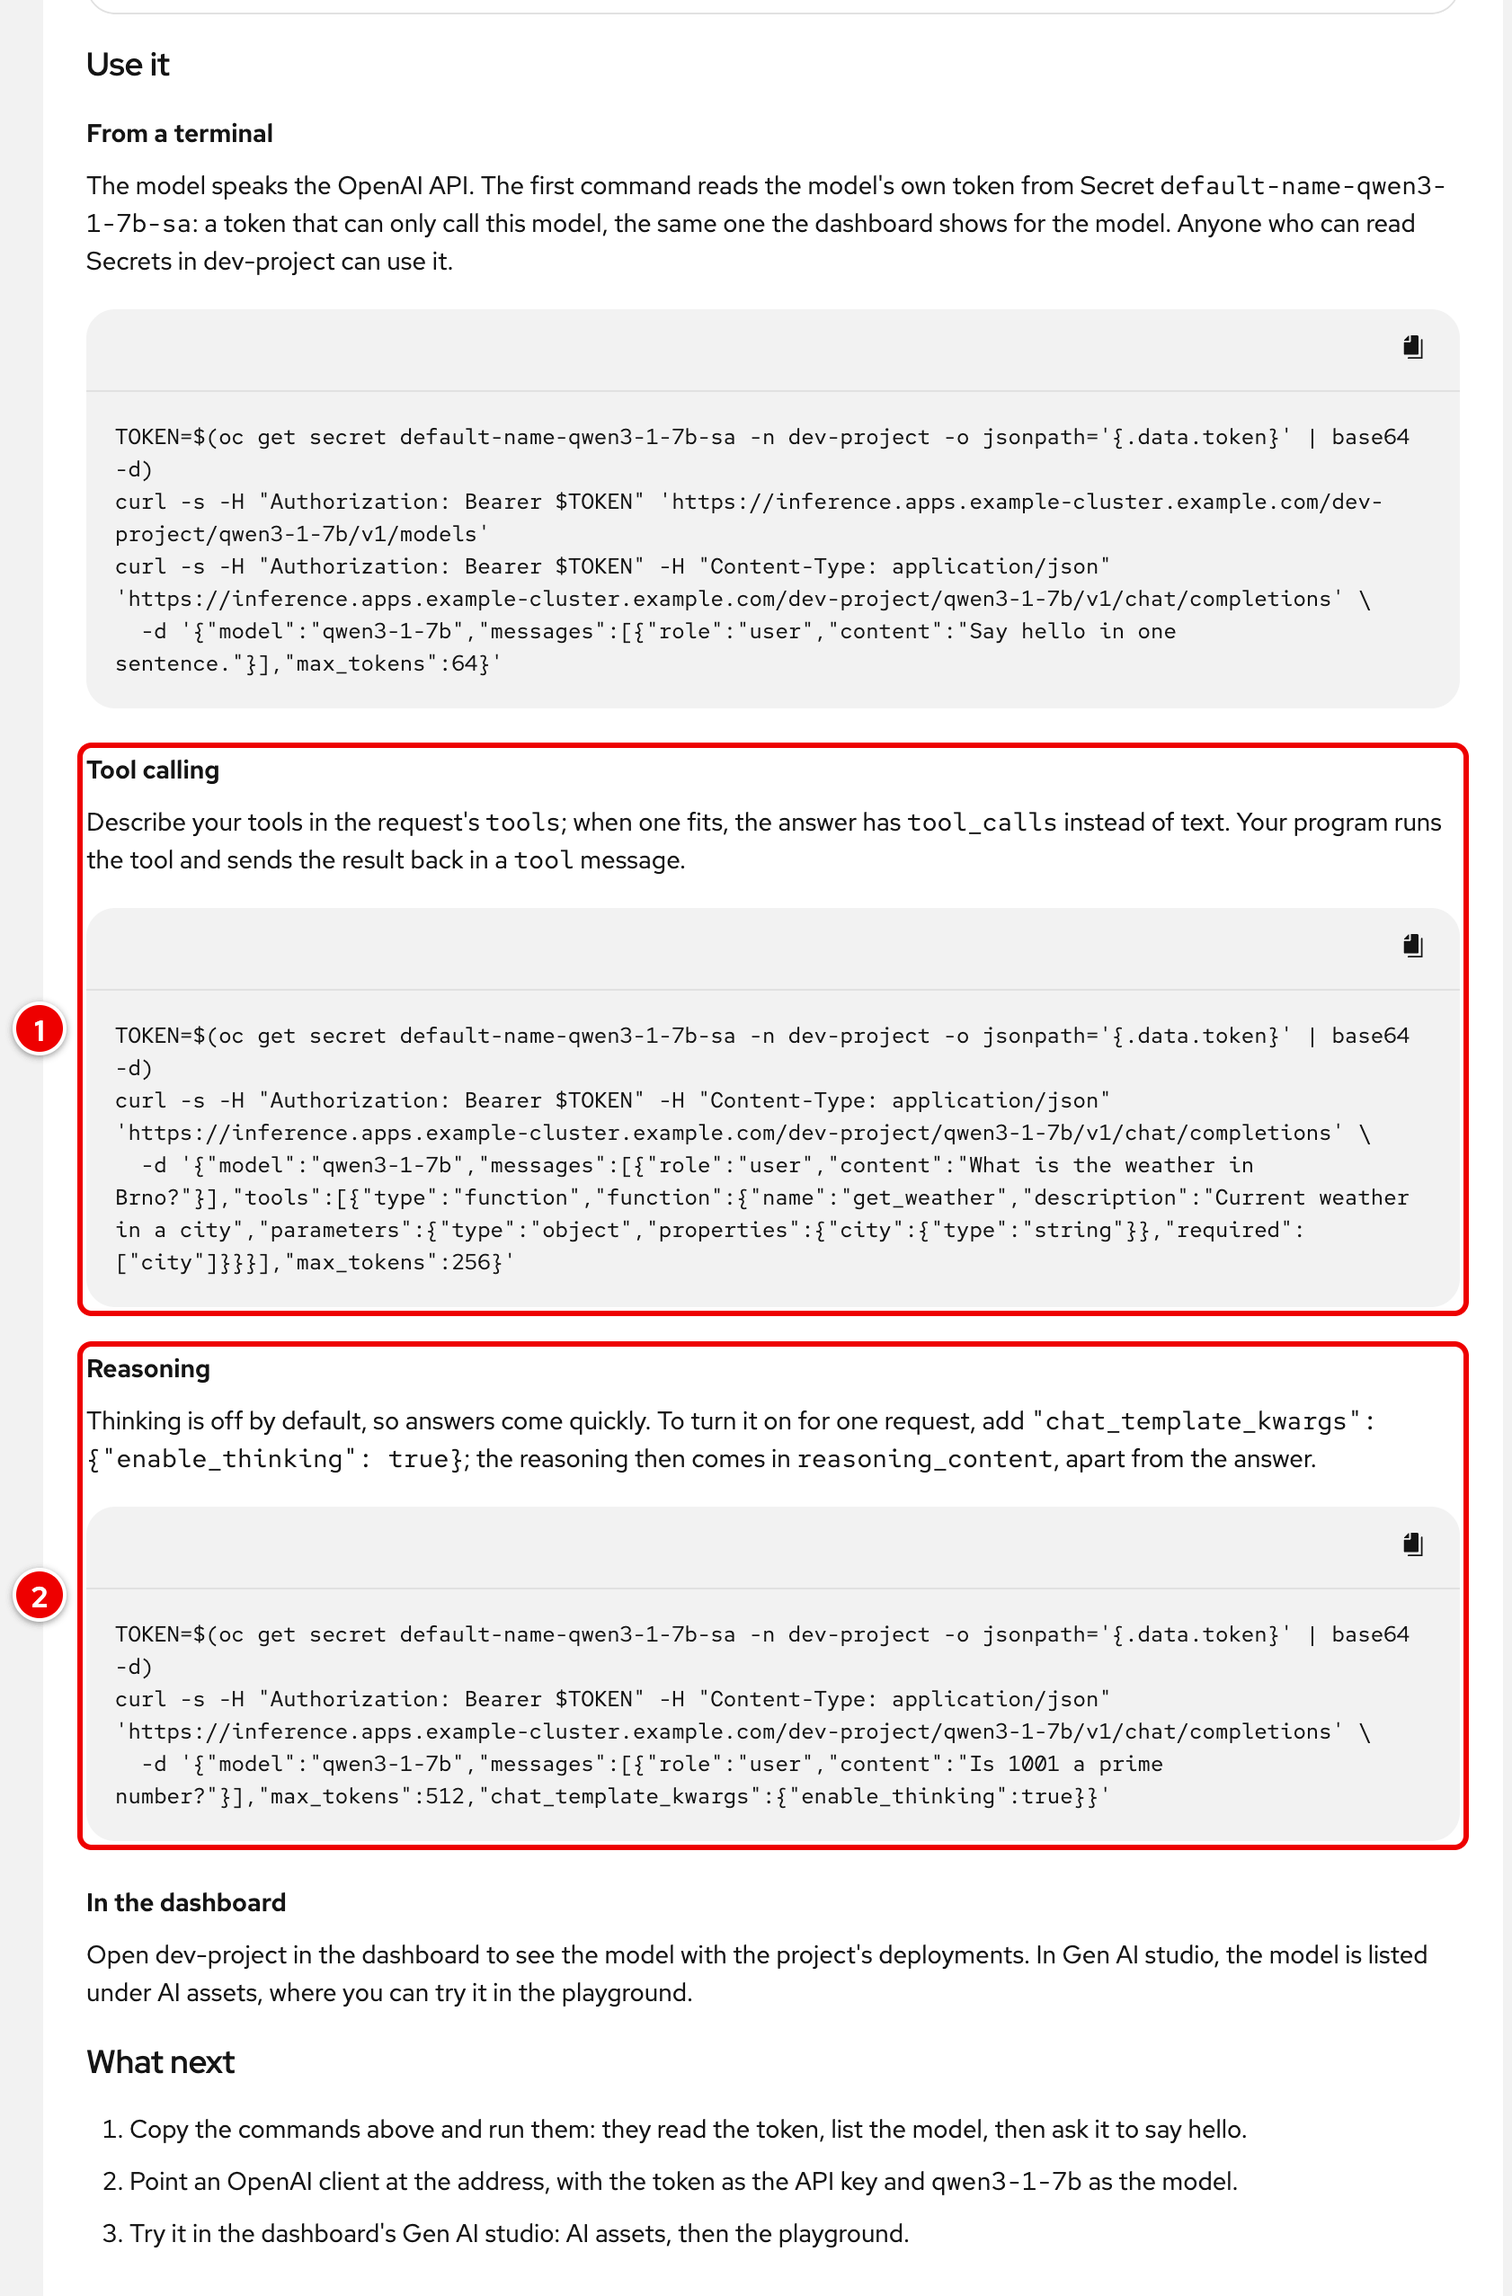
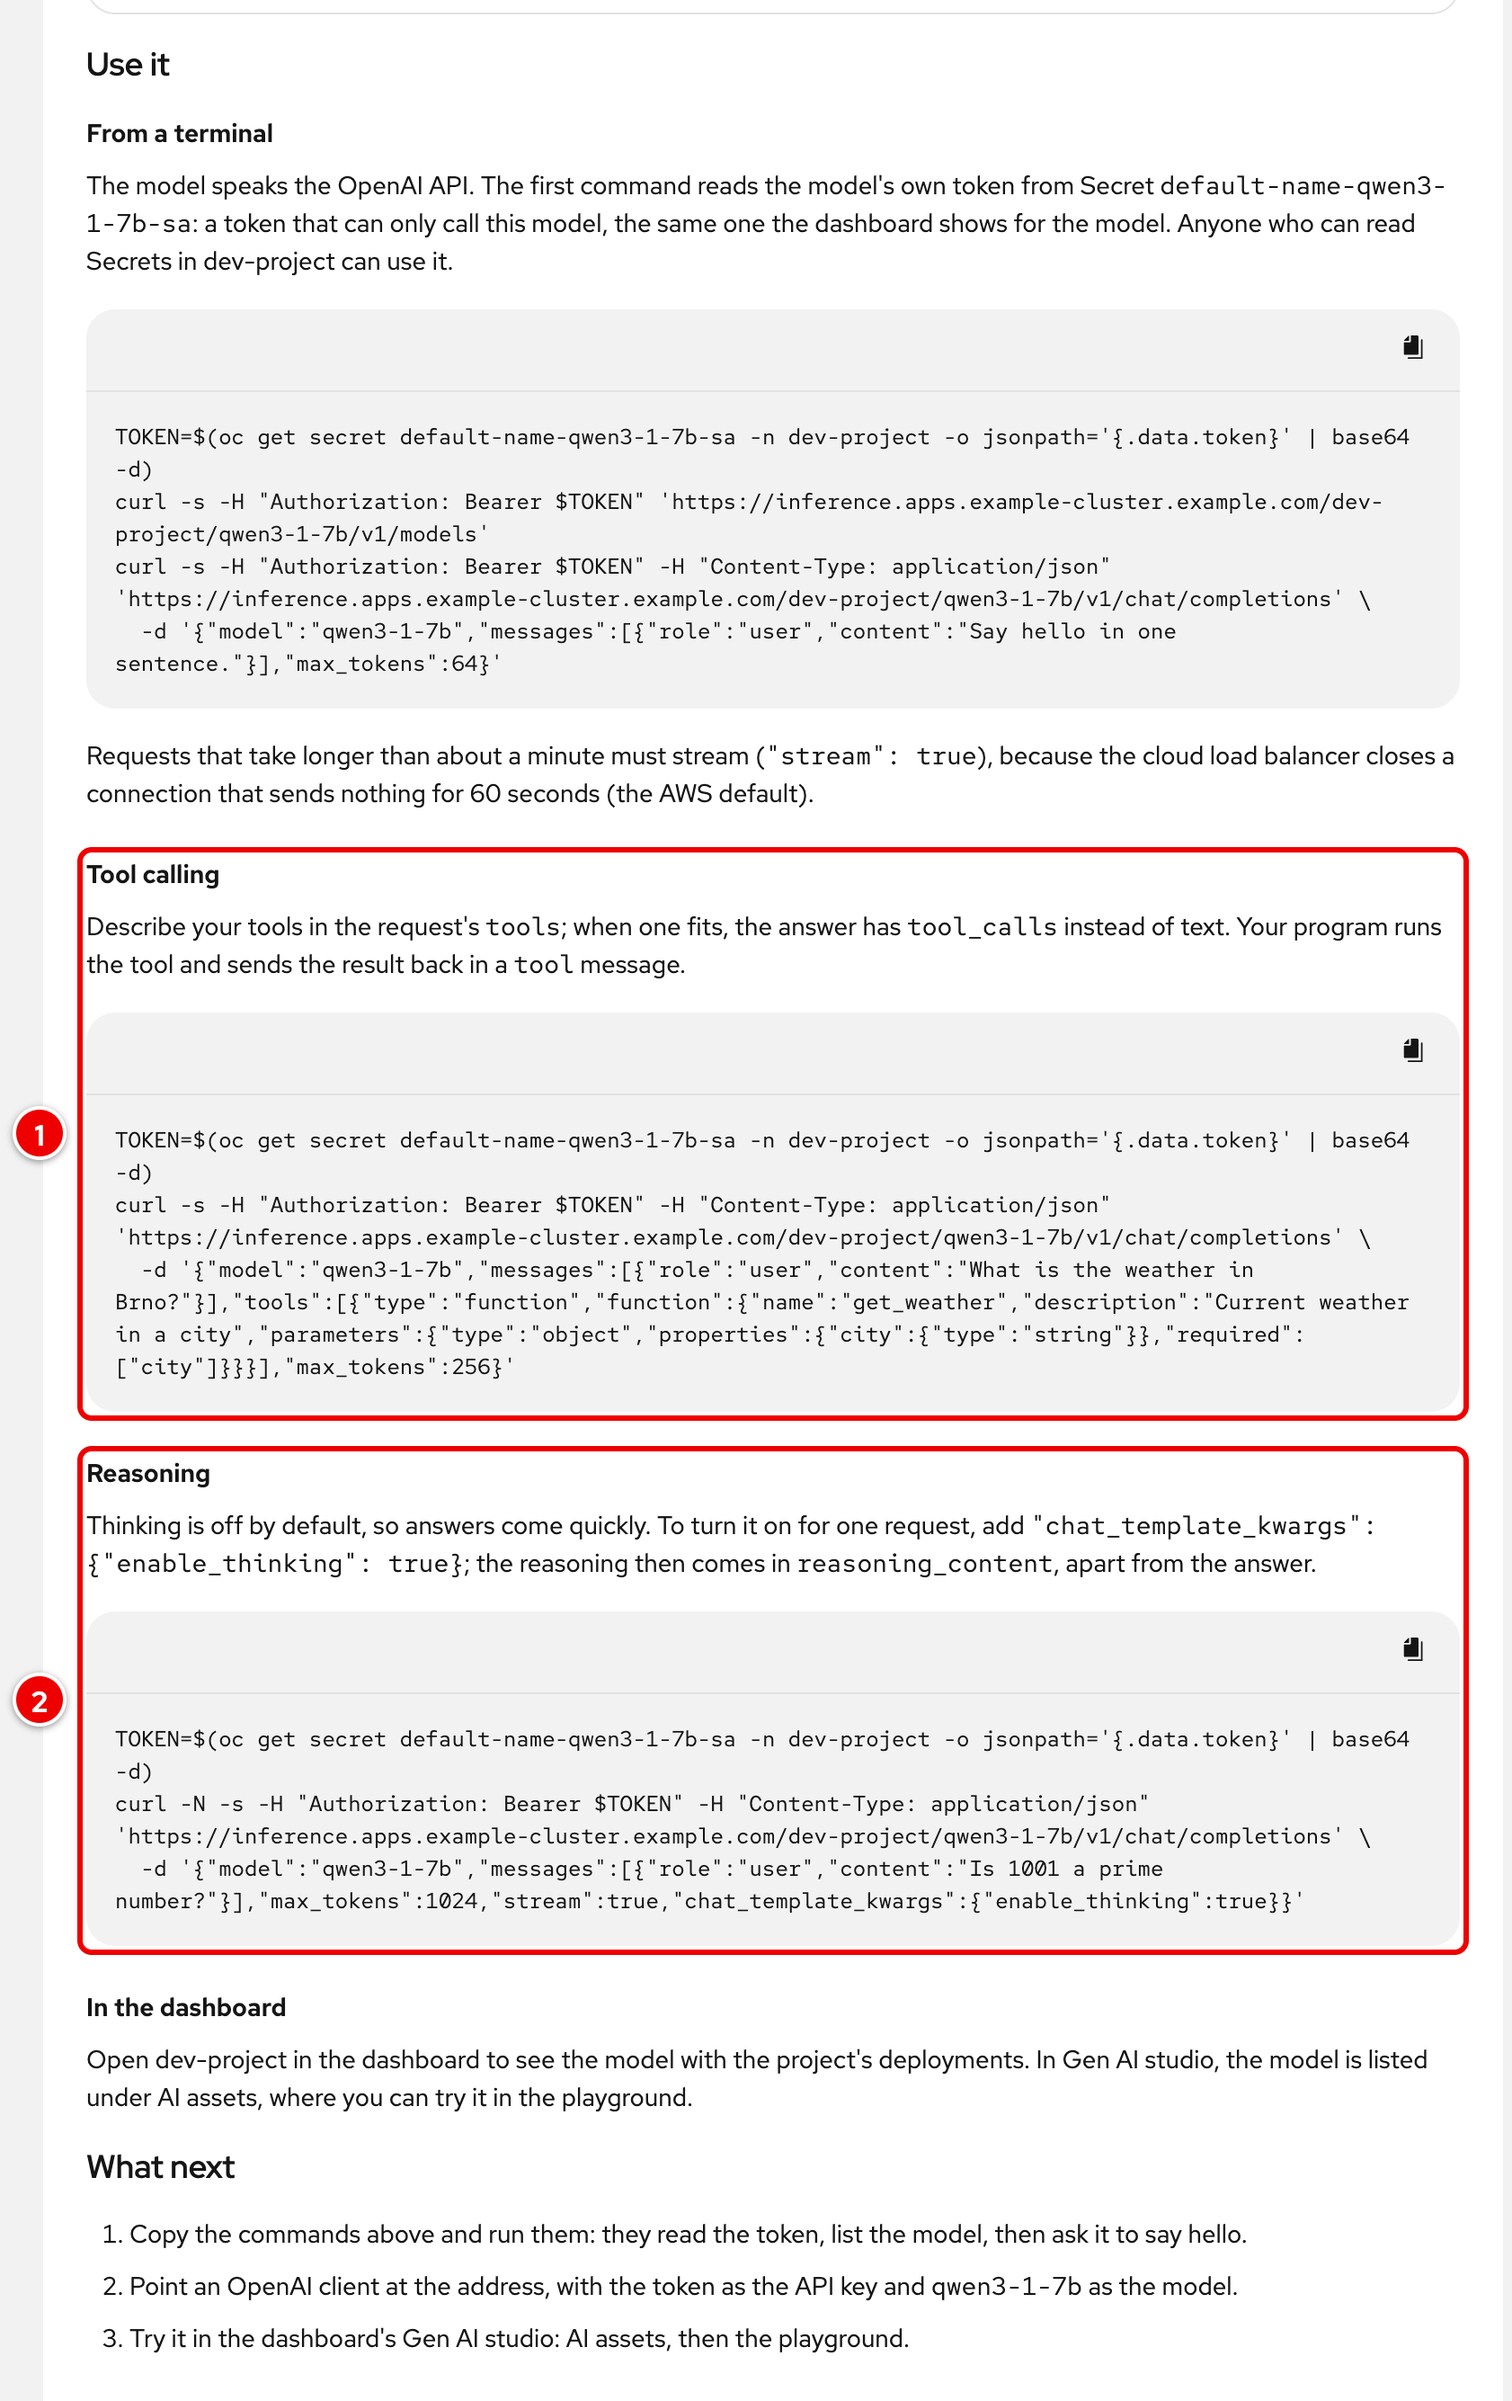
fix(models): stream the Qwen3 thinking command
The inference gateway (and the MaaS gateway) run behind AWS classic load
balancers with the default 60 s idle timeout. Live, a non-streamed Qwen3
request with thinking on (300 tokens on CPU) got nothing back for 60 s
and was dropped (curl HTTP 000 at 59 s); the same request with
"stream": true answered HTTP 200 after 72 s.

The Models tab's thinking command now streams (curl -N, "stream": true,
max_tokens 1024), and Use it says, for chat models, that requests taking
longer than about a minute must stream because the cloud load balancer
closes a connection that sends nothing for 60 seconds. The gateway and
load balancer settings are unchanged. RUNBOOK's command and README follow.

diff --git a/frontend/src/components/environment/models.test.tsx b/frontend/src/components/environment/models.test.tsx
@@ -133,6 +133,11 @@ describe("Models runs and clean-up", () => {
     }
     expect(toolCurl(base, "qwen3-1-7b")).toContain(`"tools":[{"type":"function"`);
     expect(thinkingCurl(base, "qwen3-1-7b")).toContain(`"chat_template_kwargs":{"enable_thinking":true}`);
+    // Thinking on CPU can take over a minute: the command streams (curl -N
+    // prints each event as it comes), so the load balancer's 60 s idle
+    // timeout never sees a silent connection.
+    expect(thinkingCurl(base, "qwen3-1-7b")).toContain("\ncurl -N -s ");
+    expect(thinkingCurl(base, "qwen3-1-7b")).toContain(`"max_tokens":1024,"stream":true,`);
     for (const c of [embeddingCurl(base, "x"), toolCurl(base, "x"), thinkingCurl(base, "x")]) {
       expect(c).toContain("TOKEN=$(oc whoami -t)");
       // One single-quoted body: no single quote inside it.
@@ -351,11 +356,17 @@ describe("Models tab", () => {
     const view = renderAt("/test-resources?tab=models&project=dev&model=qwen3-1-7b");
     expect(await screen.findByText(/"chat_template_kwargs":\{"enable_thinking":true\}/)).toBeInTheDocument();
     expect(screen.getByText(/Thinking is off by default/)).toBeInTheDocument();
+    expect(screen.getByText(/"stream":true/)).toBeInTheDocument();
+    // Why: the cloud load balancer closes a connection that is silent for 60 s.
+    expect(screen.getByText(/Requests that take longer than about a minute must stream/)).toHaveTextContent(
+      'Requests that take longer than about a minute must stream ("stream": true), because the cloud load balancer closes a connection that sends nothing for 60 seconds (the AWS default).');
     expect(screen.getByText(/"tools":\[/)).toBeInTheDocument();
     view.unmount();
     renderAt("/test-resources?tab=models&project=dev&model=granite-embedding-125m-english");
     expect(await screen.findByText(/\/v1\/embeddings/)).toBeInTheDocument();
     expect(screen.queryByText(/v1\/chat\/completions/)).toBeNull();
+    // An embedding request cannot stream, so the sentence is only for chat models.
+    expect(screen.queryByText(/must stream/)).toBeNull();
   });
 
   it("a model no hardware profile fits says plainly what the dashboard shows for it", async () => {

diff --git a/frontend/src/components/environment/ModelsTab.tsx b/frontend/src/components/environment/ModelsTab.tsx
@@ -96,13 +96,18 @@ export function modelCurl(url: string, model: string, token: string = TOKEN): st
   ].join("\n");
 }
 
-/** A chat request that turns the model's reasoning (thinking) on for this request only. */
+/**
+ * A chat request that turns the model's reasoning (thinking) on for this
+ * request only. It streams (curl -N prints each event as it arrives):
+ * thinking on CPU can take over a minute, and the cloud load balancer in
+ * front of the gateway closes a connection that sends nothing for 60 s.
+ */
 export function thinkingCurl(url: string, model: string, token: string = TOKEN): string {
   const base = url.replace(/\/+$/, "");
   return [
     token,
-    `curl -s ${auth} -H "Content-Type: application/json" ${shellQuote(`${base}/v1/chat/completions`)} \\`,
-    `  -d '{"model":"${model}","messages":[{"role":"user","content":"Is 1001 a prime number?"}],"max_tokens":512,"chat_template_kwargs":{"enable_thinking":true}}'`,
+    `curl -N -s ${auth} -H "Content-Type: application/json" ${shellQuote(`${base}/v1/chat/completions`)} \\`,
+    `  -d '{"model":"${model}","messages":[{"role":"user","content":"Is 1001 a prime number?"}],"max_tokens":1024,"stream":true,"chat_template_kwargs":{"enable_thinking":true}}'`,
   ].join("\n");
 }
 
@@ -498,6 +503,7 @@ export const UseModel: React.FC<{ model: ModelState; catalog?: CatalogModel; pro
                   </Content>
                 </StackItem>
                 <StackItem><CopyableCode id="models-curl" label="the commands" code={embedding ? embeddingCurl(url, name, token) : modelCurl(url, name, token)} /></StackItem>
+                {!embedding && <StackItem><Content component="p">Requests that take longer than about a minute must stream (<code>{`"stream": true`}</code>), because the cloud load balancer closes a connection that sends nothing for 60 seconds (the AWS default).</Content></StackItem>}
                 {embedding && <StackItem><Content component="p">The answer holds one vector of {c?.embeddingDimension ?? "fixed"} numbers per input text, under <code>data[].embedding</code>. Inputs longer than 512 tokens are refused.</Content></StackItem>}
               </Stack>
             )}

diff --git a/RUNBOOK.md b/RUNBOOK.md
@@ -355,17 +355,17 @@ URL=$(oc get llminferenceservice qwen25-05b-instruct -n <project> -o jsonpath='{
 curl -s -H "Authorization: Bearer $TOKEN" $URL/v1/models
 curl -s -H "Authorization: Bearer $TOKEN" -H 'Content-Type: application/json' $URL/v1/chat/completions \
   -d '{"model":"qwen25-05b-instruct","messages":[{"role":"user","content":"Say hello"}],"max_tokens":64}'
-# Qwen3: thinking is off by default; turn it on for one request
+# Qwen3: thinking is off by default; turn it on for one request (streamed: it can take over a minute)
 URL=$(oc get llminferenceservice qwen3-1-7b -n <project> -o jsonpath='{.status.url}')
-curl -s -H "Authorization: Bearer $TOKEN" -H 'Content-Type: application/json' $URL/v1/chat/completions \
-  -d '{"model":"qwen3-1-7b","messages":[{"role":"user","content":"Is 1001 prime?"}],"chat_template_kwargs":{"enable_thinking":true}}'
+curl -N -s -H "Authorization: Bearer $TOKEN" -H 'Content-Type: application/json' $URL/v1/chat/completions \
+  -d '{"model":"qwen3-1-7b","messages":[{"role":"user","content":"Is 1001 prime?"}],"max_tokens":1024,"stream":true,"chat_template_kwargs":{"enable_thinking":true}}'
 # The embedding model: one 768-number vector per input
 URL=$(oc get llminferenceservice granite-embedding-125m-english -n <project> -o jsonpath='{.status.url}')
 curl -s -H "Authorization: Bearer $TOKEN" -H 'Content-Type: application/json' $URL/v1/embeddings \
   -d '{"model":"granite-embedding-125m-english","input":["Red Hat OpenShift AI serves models."]}'
 ```
 
-`401`: no or expired token. `403`: the token's user cannot `get` the model (the model's token is only for its own model; your user needs access to the project). The `model` field is the resource name, as the dashboard's playground expects. The Qwen3 token above is in `default-name-qwen3-1-7b-sa`, the embedding model's in `default-name-granite-embedding-125m-english-sa`.
+`401`: no or expired token. `403`: the token's user cannot `get` the model (the model's token is only for its own model; your user needs access to the project). The `model` field is the resource name, as the dashboard's playground expects. The Qwen3 token above is in `default-name-qwen3-1-7b-sa`, the embedding model's in `default-name-granite-embedding-125m-english-sa`. Requests that take longer than about a minute must stream (`"stream": true`, and `curl -N`), because the cloud load balancer in front of the gateway closes a connection that sends nothing for 60 seconds (the AWS default): a non-streamed one gets no answer and ends after about 60 seconds (HTTP code `000` in curl).
 
 | Symptom | Cause and fix |
 |---|---|

diff --git a/README.md b/README.md
@@ -143,10 +143,10 @@ Each model also asks for node disk of about 1.5 times its download (KServe downl
 
 **Set up** creates whatever is missing (the gateway, then the chosen model) in one operation and waits until the model answers, typically 3 to 5 minutes the first time. With the model it makes the dashboard's token authentication, as "Require token authentication" does: ServiceAccount `<model>-sa`, which may only `get` the model, its Role and RoleBinding, and token Secret `default-name-<model>-sa`, all owned by the model. The dashboard then lists that token for the model, and its Edit keeps authentication on. Once ready, **Use it** has commands that read that token (`oc get secret default-name-<model>-sa ... | base64 -d`) and call the model: `/v1/chat/completions` for a chat model, `/v1/embeddings` for the embedding model.
 
-<img src="docs/images/environment-models-use-qwen3.png" alt="Use it for Qwen3: a chat request, a tool-calling request with a tools list, and a request that turns thinking on with chat_template_kwargs enable_thinking true" width="760">
+<img src="docs/images/environment-models-use-qwen3.png" alt="Use it for Qwen3: a chat request, a tool-calling request with a tools list, the note that requests longer than about a minute must stream, and a streamed request that turns thinking on with chat_template_kwargs enable_thinking true" width="760">
 
 1. Qwen3 calls tools: describe them in the request's `tools`, and the answer has `tool_calls` when one fits.
-2. Its thinking is off by default; `"chat_template_kwargs": {"enable_thinking": true}` turns it on for one request.
+2. Its thinking is off by default; `"chat_template_kwargs": {"enable_thinking": true}` turns it on for one request. That command streams (`"stream": true`, `curl -N`): thinking on CPU can take over a minute, and the cloud load balancer closes a connection that sends nothing for 60 seconds (the AWS default).
 
 Each part's menu has **Delete**, for the chosen model only; the gateway stays while a model uses it. **Clean up Models** deletes every model of this tool in the projects you choose, then the gateway. Troubleshooting: [RUNBOOK §10.2](RUNBOOK.md#102-models-the-inference-gateway-and-cpu-models).
 

diff --git a/CHANGELOG.md b/CHANGELOG.md
@@ -58,10 +58,12 @@ only accepts a tag whose version is the top dated section. See
   what it is for, what it reserves and its download; a model no worker has
   room for is disabled with the reason. A project can hold several; Set up,
   Delete and Use it act on the chosen one (embeddings get a
-  `/v1/embeddings` command, Qwen3 tool-calling and thinking commands).
-  Memory requests and limits come from each model's use measured live on
-  RHOAI 3.6: SmolLM2 4 / 5 GiB, Qwen2.5 6 / 8 GiB, Qwen3 12 / 14 GiB,
-  Granite 3 / 4 GiB. The storage-initializer skips ONNX and PyTorch files. The Playground adds
+  `/v1/embeddings` command, Qwen3 tool-calling and thinking commands; the
+  thinking command streams, because the cloud load balancer closes a
+  connection that sends nothing for 60 seconds). Memory requests and limits
+  come from each model's use measured live on RHOAI 3.6: SmolLM2 4 / 5 GiB,
+  Qwen2.5 6 / 8 GiB, Qwen3 12 / 14 GiB, Granite 3 / 4 GiB. The
+  storage-initializer skips ONNX and PyTorch files. The Playground adds
   this tool's embedding model as an embedding model (768 dimensions); MaaS
   publishes the chosen chat model (`MaaSRequest.model`). RBAC: the
   LLMInferenceService rule names the four models and the MaaSModelRef rule
